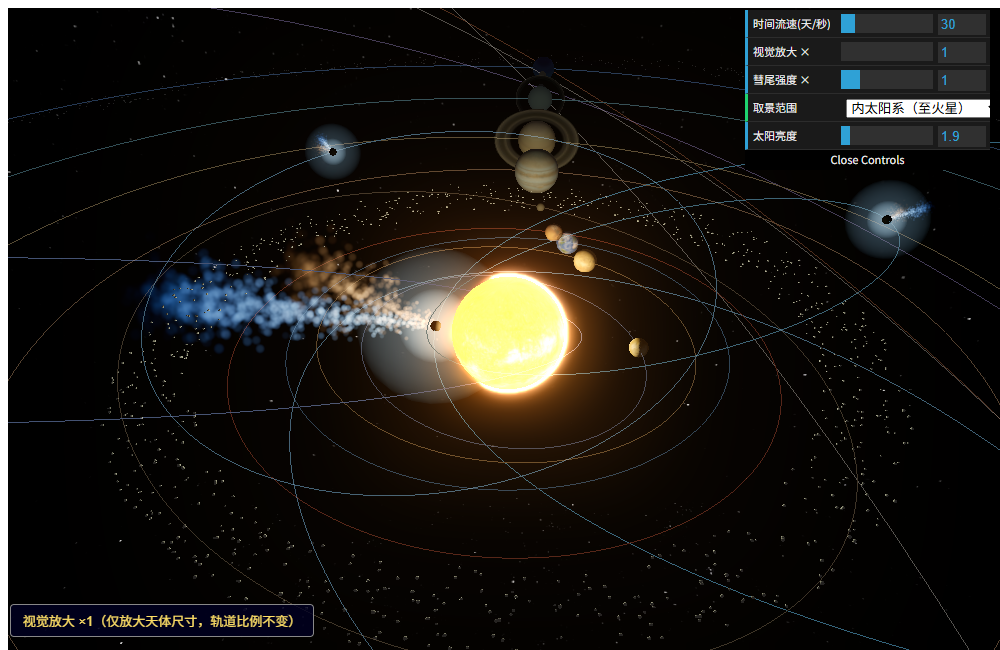
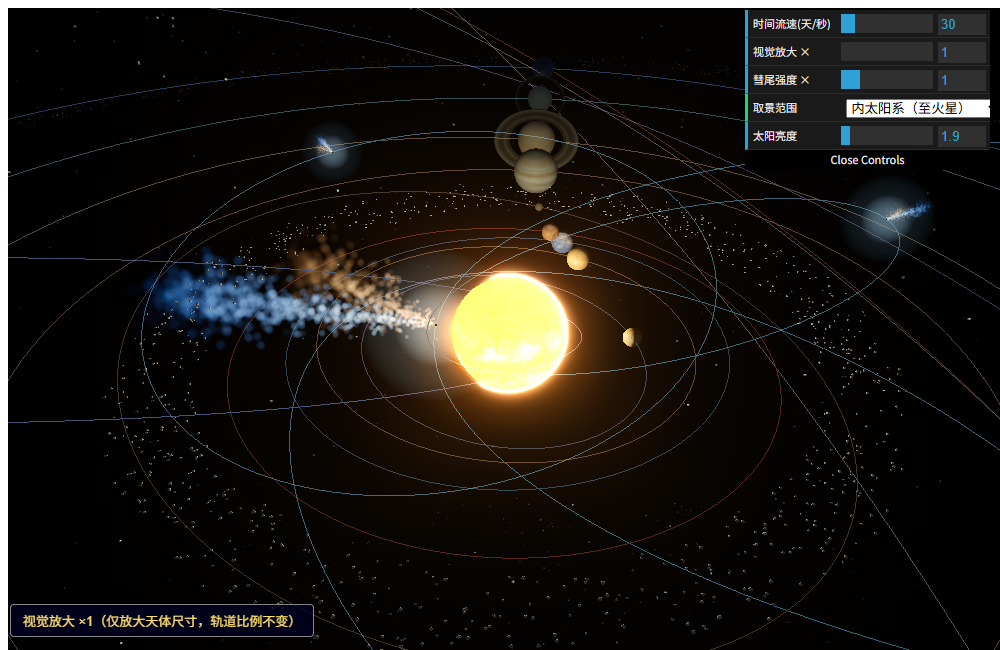
彗核按真实反照率压暗缩小、彗发改绝对单位，彗尾方向实测与说明

diff --git a/src/comet.js b/src/comet.js
@@ -27,11 +27,17 @@ import { orbitPoint } from './bodies.js';
  * 但"何时亮、何时暗"用的是真实日心距（r = a(1 - e·cos E)），这部分是真实的。
  */
 
-const DEFAULTS = {
-  comaScale: 6, // 彗发半径 = 核半径 × 该值（满活动时）
-  comaOpacity: 0.34,
+/** 彗星视觉参数的默认值（自检脚本要读它来推算"彗星的可见范围"） */
+export const COMET_DEFAULTS = {
+
+  // 彗发用**绝对场景单位**，不是"核半径的倍数"。
+  // 原因：彗核真实半径只有几 km，压缩后不足 1 单位（几乎不可见——这正是真实的），
+  // 若彗发按核半径取倍数，会跟着一起缩水到看不见。而真实彗星肉眼所见本来就是彗发，
+  // 其尺度可达 10^5 km 量级（本场景 1 单位 ≈ 995 km，故取 24 单位 ≈ 2.4×10^4 km，仍偏保守）。
+  comaRadiusUnits: 20, // 满活动时彗发半径（场景单位）
+  comaOpacity: 0.20, // 加法混合很容易过曝，压低一些才像"雾"而不像"实心亮球"
   comaColor: 0xbfe6ff,
-  comaFalloff: 2.0, // 辉光边缘衰减指数，越大中心越集中
+  comaFalloff: 2.4, // 辉光边缘衰减指数，越大中心越集中
   ionTailUnits: 100, // 离子尾满活动时的长度（场景单位）
   dustTailRatio: 0.62, // 尘埃尾长度 = 离子尾 × 该比例
   ionWidthRatio: 0.13, // 尾的横向张开半径 / 长度
@@ -265,25 +271,31 @@ function comaMesh(color, opacity, falloff, scale) {
 }
 
 /**
- * 给彗星本体挂上彗发，并造出两条粒子尾（尾巴挂 scene 根，由调用方加入场景）。
+ * 造出彗发与两条粒子尾。三者的共同点：**都挂在 scene 根**，不挂在核下面。
+ *   - 尾巴要在世界坐标里背离太阳，挂在随轨道面倾斜/旋转的 plane 下无法定向；
+ *   - 彗发要用绝对场景单位，挂在核下会继承核的 scale（彗核被压到几乎不可见，
+ *     且会随「视觉放大」滑块变化），彗发会跟着一起缩水。
+ * 因此彗发与尾巴都由调用方 add 到 scene，位置每帧跟随彗核。
+ *
  * @param {object} def 天体定义（需含 def.comet 配置）
  * @param {THREE.Mesh} mesh 本体（核）
  * @returns {{cfg:object, coma:THREE.Mesh, coma2:THREE.Mesh, ion:THREE.Points, dust:THREE.Points}}
  */
 export function createCometParts(def, mesh) {
-  const cfg = { ...DEFAULTS, ...(def.comet ?? {}) };
+  const cfg = { ...COMET_DEFAULTS, ...(def.comet ?? {}) };
   const seed = (def.id ?? 'comet').split('').reduce((s, ch) => s + ch.charCodeAt(0), 0);
 
-  // 彗发挂在核下面，会继承核的 scale(=def.size)，
-  // 因此这里的 scale 是"相对核半径的倍数"，随视觉放大滑块自动同步增长。
   // 两层：内层亮而小（彗发核心），外层淡而大（外层氢冕）
-  const coma = comaMesh(cfg.comaColor, cfg.comaOpacity, cfg.comaFalloff, cfg.comaScale);
-  const coma2 = comaMesh(cfg.comaColor, cfg.comaOpacity * 0.35, cfg.comaFalloff * 0.6, cfg.comaScale * 2.1);
+  const coma = comaMesh(cfg.comaColor, cfg.comaOpacity, cfg.comaFalloff, cfg.comaRadiusUnits);
+  // 外层氢冕：真实可达 10^6 km，但这里只画到 1.8×——再大既占填充率（加法混合很吃 GPU），
+  // 又会让彗星看起来像一个"大亮球"而不是带雾核的小天体。
+  const coma2 = comaMesh(cfg.comaColor, cfg.comaOpacity * 0.26, cfg.comaFalloff * 0.5,
+    cfg.comaRadiusUnits * 1.8);
   coma.userData.bodyId = def.id;
   coma2.userData.bodyId = def.id;
-  coma2.raycast = () => {};
-  mesh.add(coma);
-  mesh.add(coma2);
+  coma2.raycast = () => {}; // 只让内层参与点击，外层太大容易误触
+  coma.visible = false;
+  coma2.visible = false;
 
   const ion = tailPoints(cfg.ionParticles, seed + 1, {
     width: cfg.ionWidthRatio,
@@ -384,19 +396,25 @@ export function updateComet(node, sunPos, tailGain = 1) {
   const onset = cfg.onsetAU ?? 3;
   const act = Math.min(1, (onset * onset) / (rAU * rAU)); // 1/r² 衰减
 
-  // ---- 彗发：远日点几乎消失，近日点膨胀 ----
-  const comaScale = cfg.comaScale * (0.28 + 0.72 * act);
-  c.coma.scale.setScalar(comaScale);
-  c.coma2.scale.setScalar(comaScale * 2.1);
-  const comaOp = Math.min(0.7, cfg.comaOpacity * (0.25 + 0.75 * act) * tailGain);
-  c.coma.material.uniforms.uOpacity.value = comaOp;
-  c.coma2.material.uniforms.uOpacity.value = comaOp * 0.35;
-
   // ---- 位置与背离太阳方向 ----
   node.mesh.getWorldPosition(_pos);
   _dir.copy(_pos).sub(sunPos);
   if (_dir.lengthSq() < 1e-8) _dir.set(0, 0, 1);
   _dir.normalize();
+
+  // ---- 彗发：绝对场景单位 + 位置跟随彗核；远日点几乎消失，近日点膨胀 ----
+  const comaOp = Math.min(0.55, cfg.comaOpacity * (0.25 + 0.75 * act) * tailGain);
+  c.coma.material.uniforms.uOpacity.value = comaOp;
+  c.coma2.material.uniforms.uOpacity.value = comaOp * 0.26;
+  const comaR = cfg.comaRadiusUnits * (0.25 + 0.75 * act);
+  // 远日点彗发几乎消失（真实：那时它就是一颗又黑又小的核）
+  const showComa = comaOp > 0.004;
+  c.coma.visible = showComa;
+  c.coma2.visible = showComa;
+  c.coma.position.copy(_pos);
+  c.coma.scale.setScalar(comaR);
+  c.coma2.position.copy(_pos);
+  c.coma2.scale.setScalar(comaR * 1.8);
 
   // ---- 轨道运动方向：对位置做一次微小前插，得到速度方向（尘埃尾要向后偏）----
   const a = d.orbit.a;

diff --git a/src/systems/solar.js b/src/systems/solar.js
@@ -230,7 +230,12 @@ export default {
     // 彗核半径只有几公里，这里按下限(2.5)渲染；真正的看点是彗发与彗尾——
     // 它们只在接近太阳时才出现，把「时间流速」拉到 200 天/秒最容易看到彗尾长出来。
     mk('halley', '哈雷彗星 1P', {
-      color: 0x4f4c45, // 彗核反照率仅约 0.04，比煤灰还黑
+      // 彗核：反照率仅约 0.04（比煤还黑），所以颜色极暗、且不受光照（见 bodies.js）。
+      // minSizeUnits：不用系统的 minBodyUnits(2.5) 兜底——那会让几 km 的彗核
+      // 涨到和谷神星同量级。真实压缩值只有 0.37–0.54 单位，就该小到几乎看不见，
+      // 我们看到的"亮"全部来自彗发与彗尾。
+      color: 0x1a1712,
+      minSizeUnits: 0.35,
       // node = 升交点经度。本模型未建模「近日点幅角」，若不指定 node，
       // 所有彗星的近日点会落在同一方向，活跃彗尾便统统指向同一侧——默认相机在 -X 侧，
       // 尾巴正对镜头会被压缩成一个点。真实彗星各有不同升交点，这里取不同值把近日点错开。
@@ -249,7 +254,8 @@ export default {
       },
     }),
     mk('encke', '恩克彗星 2P', {
-      color: 0x4f4c45,
+      color: 0x1a1712,
+      minSizeUnits: 0.35,
       orbit: { opacity: 0.16, color: 0x9fe0ff, node: 130, M0: 3.9007 },
       comet: { onsetAU: 3, ionTailUnits: 60 },
       info: {
@@ -260,7 +266,8 @@ export default {
       },
     }),
     mk('tempel1', '坦普尔 1 号彗星 9P', {
-      color: 0x4f4c45,
+      color: 0x1a1712,
+      minSizeUnits: 0.35,
       orbit: { opacity: 0.16, color: 0xa8dcff, node: 220, M0: 3.4178 },
       comet: { onsetAU: 3.2, ionTailUnits: 70 },
       info: {
@@ -270,7 +277,8 @@ export default {
       },
     }),
     mk('churyumov', '67P 丘留莫夫-格拉西缅科', {
-      color: 0x4f4c45,
+      color: 0x1a1712,
+      minSizeUnits: 0.35,
       orbit: { opacity: 0.16, color: 0xa8dcff, node: 40, M0: 2.6011 },
       comet: { onsetAU: 3, ionTailUnits: 80 },
       info: {
@@ -280,7 +288,8 @@ export default {
       },
     }),
     mk('tempelTuttle', '坦普尔-塔特尔彗星 55P', {
-      color: 0x4f4c45,
+      color: 0x1a1712,
+      minSizeUnits: 0.35,
       orbit: { opacity: 0.16, color: 0xb0c8ff, node: 270, M0: 3.9970 },
       comet: { onsetAU: 4, ionTailUnits: 130 },
       info: {

diff --git a/src/scale.js b/src/scale.js
@@ -10,6 +10,7 @@ import { AU_KM } from './data/bodies-real.js';
  *                         按真实比例渲染就是不足 1 像素的点（"看不见天体"的根因）。
  * scale.bodyExaggeration —— 半径统一放大倍数（默认 1）
  * scale.minBodyUnits    —— 半径下限（场景单位），兜住极端小的天体
+ * def.minSizeUnits      —— 单个天体覆盖该下限（彗核用：它本就该小到几乎看不见）
  * scale.distanceMode   —— 'linear' 真实比例（可乘 distanceFactor）
  *                         'power'  按 a^p 幂律压缩（仅太阳系总览用）
  * scale.distanceFactor —— linear 模式下的距离倍数，1 = 完全真实比例。
@@ -40,9 +41,11 @@ function makeSizer(system) {
   return {
     refDef,
     sizeOf(def, factor = 1) {
+      // def.minSizeUnits 可单独覆盖系统下限：彗核真实半径只有几 km，
+      // 若被系统的 minBodyUnits 兜底，会大到和谷神星同量级——而彗核本就该几乎看不见。
       return Math.max(
         refUnits * Math.pow(def.realRadiusKm / refDef.realRadiusKm, radiusPower) * factor,
-        minUnits
+        def.minSizeUnits ?? minUnits
       );
     },
   };

diff --git a/src/bodies.js b/src/bodies.js
@@ -69,6 +69,11 @@ export function createBody(def) {
         opts.bumpScale = def.bumpScale ?? 0.7;
       }
       material = new THREE.MeshPhongMaterial(opts);
+    } else if (def.comet) {
+      // 彗核：真实反照率仅约 0.04（比煤还黑），而且是"脏雪球"——没有大气、
+      // 没有镜面高光。我们平时看到的"亮"其实全部来自彗发与彗尾，核本体几乎不可见。
+      // 所以用不受光的 MeshBasicMaterial + 极暗色，让它老老实实当个暗点。
+      material = new THREE.MeshBasicMaterial({ color: def.color ?? 0x15130f });
     } else {
       // 无贴图素材时的占位球：用真实反照率调制的灰阶
       material = new THREE.MeshPhongMaterial({

diff --git a/src/main.js b/src/main.js
@@ -197,6 +197,9 @@ export function start(system) {
     // 尾巴要在**世界坐标**里始终背离太阳，挂在随轨道面倾斜/旋转的 plane 下无法定向。
     if (def.comet && node.mesh) {
       node.comet = createCometParts(def, node.mesh);
+      // 彗发与尾巴都挂 scene 根：前者要用绝对场景单位，后者要在世界坐标里背离太阳
+      scene.add(node.comet.coma);
+      scene.add(node.comet.coma2);
       scene.add(node.comet.ion);
       scene.add(node.comet.dust);
     }

diff --git a/docs/DEVELOPMENT.md b/docs/DEVELOPMENT.md
@@ -178,7 +178,7 @@ views: [
 | 部件 | 挂点 | 说明 |
 | --- | --- | --- |
 | 核 | `mesh`（正常天体） | 半径 1.8–5.5 km，压缩后不足 1 单位，靠 `minBodyUnits: 2.5` 兜底 |
-| 彗发 | **核的子节点** | 继承核的 `scale`，因此跟随「视觉放大」滑块一起变大；半径随活动强度伸缩 |
+| 彗发（内层 + 外层氢冕） | **scene 根** | 用**绝对场景单位**（`comaRadiusUnits`，默认 20）。不挂在核下——彗核被压到不足 1 单位，挂在核下会跟着一起缩水；位置每帧跟随彗核 |
 | 离子尾 / 尘埃尾 | **scene 根** | 必须挂在根节点：尾巴要在世界坐标里背离太阳，挂在随轨道面倾斜的 `plane` 下无法定向。用 `THREE.Points` + 顶点着色器塑形（见下） |
 
 ### 尾巴为什么用粒子而不是几何体
@@ -221,6 +221,29 @@ views: [
   坦普尔-塔特尔 5.9（当年在远日点附近，几乎休眠）。
   这样初始画面既有明显的大彗尾，其余几颗又散在轨道各处、长短不一，不会糊成一团。
 
+### 彗尾为什么有时在"侧面"甚至"前方"？
+
+一个常见直觉是"尾巴应该拖在运动后方"（像流星）。但**真实彗尾是背离太阳的**，
+跟运动方向没有直接关系——太阳风和辐射压是从太阳往外吹的。于是：
+
+| 彗星状态 | 运动方向 vs 背离太阳方向 | 表现 |
+| --- | --- | --- |
+| **近日点 / 远日点** | 速度与半径**垂直** | 夹角 ≈ **90°**，尾巴在**正侧面** |
+| **远离太阳** | 运动朝外、尾巴也朝外 | 夹角 ≈ 26°–40°，尾巴**拖在后侧方** ✅ 符合直觉 |
+| **接近太阳** | 运动朝内、尾巴朝外 | 夹角 ≈ 143°–154°，尾巴指向**前侧方**（迎着运动） |
+
+用生产代码实测哈雷一个周期（`npm run check:comet` 会打印并断言）：
+
+```
+E=0.00  接近太阳  90.1°  正侧面      ← 初始画面就停在这儿（1986 过近日点）
+E=1.20  远离太阳  26.6°  后方（拖在后面）
+E=3.14  远离太阳  89.9°  正侧面
+E=5.00  接近太阳 154.1°  前侧方（迎着运动）
+```
+
+所以**看到尾巴横在侧面不是 bug**——那正说明这颗彗星此刻在近日点附近。
+把「时间流速」拉到 150–200 天/秒，就能看到它远离太阳时尾巴逐渐转到后方。
+
 ### 已知的美化（务必知道）
 
 | 项 | 处理 | 原因 |
@@ -228,7 +251,9 @@ views: [
 | 彗尾长度 | ⚠ 视觉量（`ionTailUnits`，场景单位） | 总览用幂律压缩距离 `a^0.45`，非线性映射下无法把 AU 线性换算成长度。**"何时亮/暗"是真的，"有多长"是视觉量** |
 | 近日点 | ⚠ 渲染偏心率被调小 | 太阳球体（26 单位）本身被夸大（真实比例仅约 0.2 单位，看不见），哈雷近日点压缩后只有约 12 单位会陷进太阳。故 `minPerihelionUnits: 34` 只收**渲染用** `e`（哈雷 0.9671→0.9064），真实值保留在 `orbit.eReal` 供活动强度计算 |
 | 升交点经度 node | ⚠ 展示性取值 | 本模型未建模"近日点幅角 ω"，若不指定 node，所有彗星近日点会落在同一方向，活跃彗尾统统指向同一侧（默认相机在 −X 侧，尾巴正对镜头被压缩成一点）。真实彗星各有不同升交点，这里取 90/130/220/40/270 让近日点错开 |
-| 彗核半径 | ⚠ 下限兜底 | 真实 1.8–5.5 km，`radiusPower 0.35` 后不足 1 单位（<1px），用 `minBodyUnits: 2.5` 抬到与谷神星同量级 |
+| 彗核半径 | ✅ 真实（不兜底） | 真实 1.8–5.5 km，`radiusPower 0.35` 后只有 0.37–0.54 单位。早期被系统 `minBodyUnits: 2.5` 兜底抬到与谷神星同量级（错：彗核比谷神星小约 100 倍）。现在用 `def.minSizeUnits: 0.35` 单独覆盖，**让它小到几乎看不见**——这正是真实的，我们看到的"亮"全部来自彗发与彗尾 |
+| 彗核亮度 | ✅ 真实 | 反照率仅约 0.04（比煤还黑），且无大气、无镜面高光 → `MeshBasicMaterial` + 极暗色 `0x1a1712`，**不受光照**。早期用 `MeshPhongMaterial`（带高光、31% 反照率）导致它是个亮球 |
+| 彗发尺度 | ⚠ 保守 | 真实彗发可达 10^5 km 量级（本场景 1 单位 ≈ 995 km），这里取半径 20 单位 ≈ 2×10^4 km，仍偏小；外层氢冕只画到 1.8×（再大既吃填充率又会让彗星像个大亮球） |
 
 ### 自检
 

diff --git a/readme.md b/readme.md
@@ -43,6 +43,9 @@
 
 同一颗彗星可以同时看到两种尾巴：**细长的蓝色离子尾**（太阳风拖拽，笔直背离太阳）与**更宽更短的黄橙色尘埃尾**（辐射压推动，向运动反方向弯曲）。两者都由粒子流构成，边缘不规则、会随太阳风缓慢飘动。
 
+> 彗核反照率只有约 0.04（比煤还黑）、直径仅几公里，所以在画面里**几乎看不见**——你看到的那一团光是**彗发**。
+> 尾巴是"背离太阳"而不是"拖在运动后方"：接近太阳时它其实指向前侧方，远离太阳时才拖到后面，近日点则正好横在侧面。
+
 > 轨道比例 100% 真实；天体半径经压缩以便同屏可见，面板里拖「视觉放大 ×N」即可把小卫星放大观察（左下角角标会标注放大倍数）。
 > 彗星只在接近太阳时才长出彗发与尾巴，远日点就是一颗又黑又小的核——想看彗尾请把「取景范围」切到**内太阳系**，或把「时间流速」拉到 150–200 天/秒等它回归。
 
@@ -53,7 +56,7 @@
 - **真实轨道**：真椭圆、中心天体位于焦点；偏心率、倾角取自 JPL / PDS。水星、冥王星明显椭圆；海卫一及部分不规则卫星逆行公转。
 - **8 个独立系统**：太阳系总览 + 地月 / 火星 / 木星 / 土星 / 天王星 / 海王星 / 冥王星子系统。每个可单独打开、单独构建，互不覆盖。
 - **视觉放大**：卫星太小看不见？拖「视觉放大 ×N」只放大天体尺寸、轨道比例不变，角标实时标注倍数。
-- **真实彗星**：5 颗彗星（哈雷、恩克、坦普尔 1 号、67P、坦普尔-塔特尔）带**彗发 + 离子尾 + 尘埃尾**。尾巴由粒子流实时塑形（湍流、条纹、抛物线弯曲），始终背离太阳；长度与亮度按 1/r² 随日心距变化——远日点只剩一颗又黑又小的核，越靠近太阳尾巴越长。
+- **真实彗星**：5 颗彗星（哈雷、恩克、坦普尔 1 号、67P、坦普尔-塔特尔）带**彗发 + 离子尾 + 尘埃尾**。彗核按真实反照率（0.04）渲染成几乎不可见的暗点，所见的光来自彗发；尾巴由粒子流实时塑形（湍流、条纹、抛物线弯曲），始终背离太阳；长度与亮度按 1/r² 随日心距变化——远日点只剩一颗又黑又小的核，越靠近太阳尾巴越长。
 - **分档视角**：总览可在「内太阳系 / 八大行星区 / 柯伊伯带 / 含阋神星」之间切换。矮行星把外缘推到 68 AU，一屏塞全部时内行星会偏小，切档即可细看。
 - **交互探索**：拖拽旋转、滚轮缩放；点击天体相机飞近并弹出资料卡；巨行星卫星太多时用「取景范围」分档查看。
 - **全屏 / 移动端**：支持全屏，移动端横屏体验更佳。
